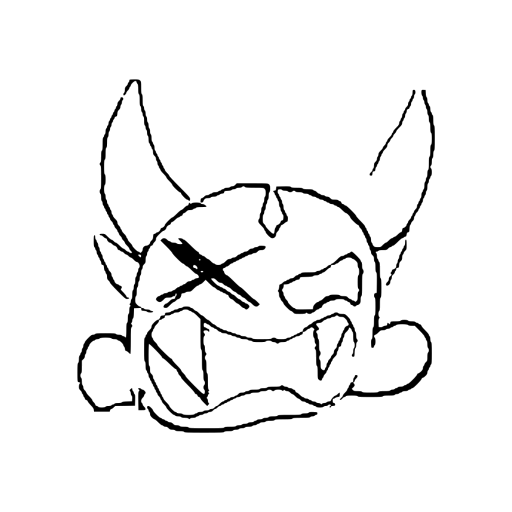
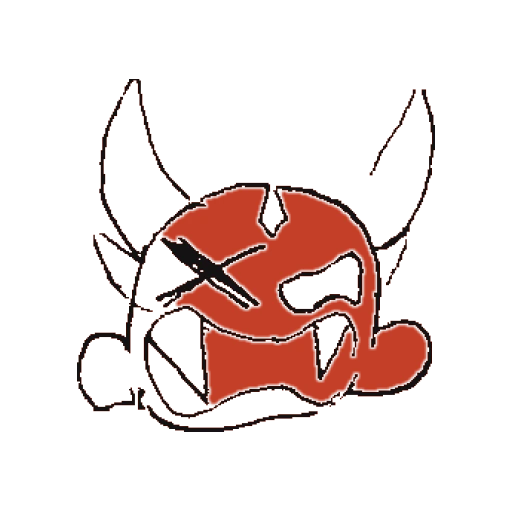
fix(assets): fill Devilz line art with color for readability

diff --git a/src/assets/devilz/devilz-color-addendum.md b/src/assets/devilz/devilz-color-addendum.md
@@ -1,0 +1,56 @@
+## Addendum — 2026-08-08: relleno de color
+
+Motivo: los tres Devilz, como línea pura sin relleno, casi no se veían contra
+el fondo oscuro del arranque de nivel. Confirmado jugando (Claude Code, sesión
+de conexión al registro/selector).
+
+### Qué se hizo
+
+Relleno de color plano **dentro** del contorno exacto de Mateo, por debajo de
+su tinta. La tinta —cada trazo, cada temblor, cada asimetría— es un pixel a
+pixel idéntica a la que salió del boceto original. No se suavizó, no se
+enderezó, no se completó ningún trazo suyo. El color es una capa nueva
+debajo; su dibujo no cambió.
+
+Paleta, familia cálida coherente con el resto del proyecto (Chomper, Hell
+Man), un tono distinto por personaje para que se distingan también en el
+selector, no solo en el nivel:
+
+| Personaje | Color | Hex aprox. |
+|---|---|---|
+| Devi | rojo-naranja | `#C43E28` |
+| Lovu | ámbar | `#E0822A` |
+| Divu | vino-magenta | `#963778` |
+
+### La única excepción al "no se toca su trazo"
+
+En el dibujo original, el cuerno derecho de Devi y la unión cuerno-cabeza de
+Divu quedan como trazos que no llegan a tocarse — normal en un boceto rápido.
+Para poder calcular *dónde* rellenar de color hizo falta, solo en el cálculo
+interno, un puente de 2-3 px invisible que nunca se dibuja: sirve para que el
+algoritmo sepa "esto es interior", no para alterar la línea final. La tinta
+que se ve en pantalla es la suya, sin el puente. En Devi, el cuerno derecho
+se dejó sin rellenar a propósito —no está unido al cuerpo en su dibujo, y
+rellenar ahí habría sido inventar una unión que él no dibujó.
+
+### Pipeline
+
+`{n}_mask.png` (línea limpia, ya existente) → relleno calculado con la
+técnica que cerraba bien cada contorno concreto (Devi/Lovu: flood-fill desde
+el exterior; Divu necesitó cierre morfológico + contorno externo, su trazo
+deja un hueco real que el método simple no cerraba) → composición: color
+abajo, tinta de Mateo arriba, fuera transparente → mismo pipeline de poses
+que ya existía (recorte, escala a 512×512, transform anclado a (0.5, 0.58),
+squash/stretch/rotate por pose) → 12 webp nuevos, mismos nombres de archivo
+que sustituyen a los anteriores.
+
+Contrato de alineación sin cambios: mismo lienzo, mismo ancla, mismos cuatro
+nombres de pose por personaje. Nada en `devilzProfiles.ts` ni en el switcher
+necesita tocarse por este cambio — es sustitución de textura, no de contrato.
+
+### Verificado
+
+Contra blanco y contra un fondo casi negro (`#0c0c0e`, aproximando el fondo
+real reportado). Los tres se leen con claridad en ambos. Pendiente: verlo
+contra el fondo *real* del nivel, no una aproximación — confirmarlo la
+próxima vez que alguien juegue con un Devilz seleccionado.
